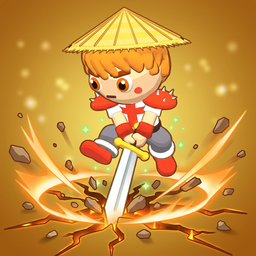
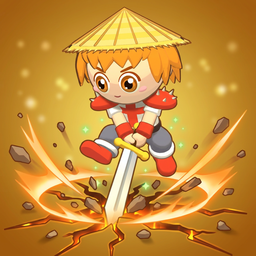
Ferme : deplacements en diagonale, persos habilles dans Tes parties, icones du Iop et des options
- le perso marche en 8 directions (sans couper l'angle des batiments), va au point exact touche et arrondit ses virages
- l'accueil montre chaque partie avec son perso en 3D, apparence et pieces portees
- les 6 icones du Iop classique refaites d'apres le perso en jeu
- icones propres pour les objectifs, les graphismes, le tuto et le plein ecran

diff --git a/site/ferme/js/24-deplacement.js b/site/ferme/js/24-deplacement.js
@@ -31,6 +31,30 @@ function trajetCoupe(depart, cible, but, bloc) {
   }
   return null;
 }
+/* LE PERSO MARCHE AUSSI EN DIAGONALE (23/10/2026, « faudrait qu'on integre les deplacements en diagonale en vrai, qu'on soit plus trop limite et qu'on
+   fluidifie encore les deplacements », Mathieu) : son trajet passe par les huit cases voisines, une diagonale seulement si les deux cases qu'elle
+   frole sont praticables (il ne coupe pas l'angle d'un batiment). Les monstres, les voleurs et le gardien gardent leur trajet en quatre directions */
+const COINS = [[1, 1], [1, -1], [-1, 1], [-1, -1]];
+function coinLibre(a, b) { const di = b.i - a.i, dj = b.j - a.j; if (Math.abs(di) !== 1 || Math.abs(dj) !== 1) return false; const x = caseAt(a.i + di, a.j), y = caseAt(a.i, a.j + dj); return !!(x && y && PASSABLE[x.type] && PASSABLE[y.type]); }
+function voisinsMarche(p) {
+  const L = []; for (const [di, dj] of COTES) { const c = caseAt(p.i + di, p.j + dj); if (c && PASSABLE[c.type]) L.push([c, 1]); }
+  for (const [di, dj] of COINS) { const c = caseAt(p.i + di, p.j + dj); if (c && PASSABLE[c.type] && coinLibre(p, c)) L.push([c, Math.SQRT2]); }
+  return L;
+}
+function trajetPerso(depart, cible) {
+  const but = PASSABLE[cible.type] ? cible : null, bloc = blocDe(cible);
+  const cout = new Map([[depart.id, 0]]), prec = new Map([[depart.id, null]]), ouverts = [depart], fait = new Set();
+  while (ouverts.length) {
+    let k = 0; ouverts.forEach((c, i) => { if (cout.get(c.id) < cout.get(ouverts[k].id)) k = i; });
+    const c = ouverts.splice(k, 1)[0]; if (fait.has(c.id)) continue; fait.add(c.id);
+    if (c === but || (!but && PASSABLE[c.type] && voisins(c).some((v) => bloc.includes(v)))) { const ch = []; let x = c; while (x) { ch.unshift(x); x = prec.get(x.id); } return ch; }
+    for (const [v, pas] of voisinsMarche(c)) { const d = cout.get(c.id) + pas; if (!fait.has(v.id) && d < (cout.has(v.id) ? cout.get(v.id) : Infinity)) { cout.set(v.id, d); prec.set(v.id, c); ouverts.push(v); } }
+  }
+  return trajetCoupe(depart, cible, but, bloc);
+}
+/* le point exact touche dans la case (un clic qui deplace seulement) : il y va, au lieu du centre de la case. Pose par le clic, lu par allerPuis */
+let pointVise = null;
+function pointDansCase(c, p) { const q = posCase(c), m = S / 2 - 0.35; return { x: Math.max(q.x - m, Math.min(q.x + m, p.x)), z: Math.max(q.z - m, Math.min(q.z + m, p.z)) }; }
 function paysanAdjacent(cible) { const c = paysanMesh.userData.cellule, bloc = blocDe(cible); return c && (bloc.includes(c) || voisins(c).some((v) => bloc.includes(v))); }
 /* le trajet : chemin de cases (BFS), puis lisse en lignes droites quand rien ne bloque, arret au bord du champ ou devant le batiment */
 const VITESSE = 5.6, VITESSE_CRA = 1.15, vitesse = () => VITESSE * (niv('bottes') ? 1.3 : 1) * (combat && combat.citron ? VITESSE_CITRON : 1) * (classeDe() === 'cra' ? VITESSE_CRA : 1) * (combat && combat.lenteur > 0 ? 0.55 : 1); /* (ralenti par une Momie Koalak) */ /* (le Cra court 15 % plus vite : plus fragile, il recule pour garder ses distances, c'est au joueur de le faire) */
@@ -44,7 +68,7 @@ function ligneLibre(a, b) {
     for (const o of [0, -0.3, 0.3]) {
       const x = a.x + dx * Math.min(t, L) / L + nx * o, z = a.z + dz * Math.min(t, L) / L + nz * o, c = caseSous(x, z);
       if (!c || !PASSABLE[c.type]) return false;
-      if (o === 0) { if (prec && c !== prec && !voisins(prec).includes(c)) return false; prec = c; }
+      if (o === 0) { if (prec && c !== prec && !voisins(prec).includes(c) && !coinLibre(prec, c)) return false; prec = c; } /* (en diagonale par un coin : les deux cases a cote doivent etre praticables) */
     }
   }
   return true;
@@ -53,12 +77,15 @@ function allerPuis(cible, fn) {
   const u = paysanMesh.userData, ici = caseSous(paysanMesh.position.x, paysanMesh.position.z);
   let depart = (ici && PASSABLE[ici.type] && (u.cellule ? u.cellule.terrain === 'main' : true)) ? ici : (u.cellule || S_.cases[0]);
   if (!PASSABLE[depart.type]) depart = voisins(depart).find((v) => PASSABLE[v.type]) || depart;
-  if (depart === cible || (!PASSABLE[cible.type] && voisins(depart).some((v) => blocDe(cible).includes(v)) && !chemin.length)) { chemin = []; arrivee = null; u.cellule = depart; regarder(posCase(cible)); fn(); return; }
-  const ch = trajet(depart, cible), pc = posCase(cible);
+  const vise = pointVise && pointVise.c === cible.id && PASSABLE[cible.type] ? pointDansCase(cible, pointVise) : null; pointVise = null;
+  if (vise && depart === cible) { if (Math.hypot(vise.x - paysanMesh.position.x, vise.z - paysanMesh.position.z) > 0.05) { chemin = [{ c: cible, x: vise.x, z: vise.z }]; arrivee = { cible, fn, vise }; return; } }
+  if (depart === cible || (!PASSABLE[cible.type] && voisins(depart).some((v) => blocDe(cible).includes(v)) && !chemin.length)) { chemin = []; arrivee = null; u.cellule = depart; if (!vise) regarder(posCase(cible)); fn(); return; }
+  const ch = trajetPerso(depart, cible), pc = posCase(cible);
   if (!ch) { chemin = []; arrivee = null; regarder(pc); fn(); return; } /* sans chemin (ne devrait plus arriver) : il agit d'ou il est, jamais a travers les batiments ou le vide */
   /* ou s'arreter : devant un batiment (un peu vers lui), au bord d'un champ (cote d'ou l'on vient), sinon au centre de la case */
   const fin = ch[ch.length - 1], pf = posCase(fin); let cellFin = fin, pt = { x: pf.x, z: pf.z };
   if (fin !== cible) { const t = posCase(blocDe(cible).find((v) => voisins(fin).includes(v)) || cible); pt = { x: pf.x + (t.x - pf.x) * 0.3, z: pf.z + (t.z - pf.z) * 0.3 }; }
+  else if (vise) pt = { x: vise.x, z: vise.z };
   else if (cible.type === 'champ' && ch.length >= 2) { cellFin = ch[ch.length - 2]; const pv = posCase(cellFin); pt = { x: pc.x + (pv.x - pc.x) * 0.62, z: pc.z + (pv.z - pc.z) * 0.62 }; }
   let pts = ch.slice(1, ch.indexOf(cellFin) + 1).map((c) => ({ c, x: posCase(c).x, z: posCase(c).z }));
   if (pts.length) pts[pts.length - 1] = { c: cellFin, x: pt.x, z: pt.z }; else pts = [{ c: cellFin, x: pt.x, z: pt.z }];
@@ -67,7 +94,7 @@ function allerPuis(cible, fn) {
     while (k < pts.length) { let j = pts.length - 1; while (j > k && !ligneLibre(cur, pts[j])) j--; lisse.push(pts[j]); cur = pts[j]; k = j + 1; }
     pts = lisse;
   }
-  chemin = pts; arrivee = { cible, fn };
+  chemin = pts; arrivee = { cible, fn, vise };
 }
 function regarder(pt) { const dx = pt.x - paysanMesh.position.x, dz = pt.z - paysanMesh.position.z; if (Math.hypot(dx, dz) > 0.05) paysanMesh.userData.angle = Math.atan2(dx, dz); }
 function hancheDe(g) { const p = (g.userData.membres || [])[0]; if (!p) return 0.3; g.updateMatrixWorld(true); return Math.max(0.1, p.getWorldPosition(new T.Vector3()).y - g.position.y); } /* la hauteur de la hanche au-dessus des pieds */
@@ -94,9 +121,13 @@ function marcher(dt, s) {
   if (u.angle !== undefined) { let d = u.angle - paysanMesh.rotation.y; d = Math.atan2(Math.sin(d), Math.cos(d)); paysanMesh.rotation.y += d * Math.min(1, dt * 10); } /* il tourne en douceur */
   if (!chemin.length) {
     u.marche = 0; animerPas(u, dt, 0); paysanMesh.position.y += ((u.y || 0) - paysanMesh.position.y) * Math.min(1, dt * 12);
-    if (arrivee) { const a = arrivee; arrivee = null; regarder(posCase(a.cible)); a.fn(); sauver(); }
+    if (arrivee) { const a = arrivee; arrivee = null; if (!a.vise) regarder(posCase(a.cible)); a.fn(); sauver(); } /* (arrive au point touche, il garde la direction de sa marche) */
     if (fileActions.length && !arrivee && !chemin.length) enchainer(); /* la tache suivante de la file */
     return;
+  }
+  { /* les virages s'arrondissent : pres d'un point de passage, des que le suivant se voit en ligne droite, il file directement vers lui (23/10/2026) */
+    const px = paysanMesh.position.x, pz = paysanMesh.position.z;
+    if (chemin.length >= 2 && Math.hypot(chemin[0].x - px, chemin[0].z - pz) < 0.9 && ligneLibre({ x: px, z: pz }, chemin[1])) { const ici = caseSous(px, pz); if (ici && PASSABLE[ici.type]) u.cellule = ici; chemin.shift(); }
   }
   const e = chemin[0], px = paysanMesh.position.x, pz = paysanMesh.position.z, dx = e.x - px, dz = e.z - pz, d = Math.hypot(dx, dz);
   let reste = d; for (let k = 1; k < chemin.length; k++) reste += Math.hypot(chemin[k].x - chemin[k - 1].x, chemin[k].z - chemin[k - 1].z);
@@ -266,9 +297,9 @@ canvas.addEventListener('pointerup', (e) => {
       if (mid !== undefined) { cibler(mid); return; }
       if (combat.genre === 'ile') { const [x, z] = bornerIle(h.point.x, h.point.z); combat.ordre = true; combat.tenir = true; chemin = [{ c: paysanMesh.userData.cellule, x, z }]; arrivee = null; return; }
       if (combat.arene) { const x = h.point.x, z = h.point.z, C0 = ARENE, R0 = R_ARENE; if (Math.hypot(x - C0.x, z - C0.z) < R0) { combat.ordre = true; combat.tenir = true; chemin = [{ c: paysanMesh.userData.cellule, x, z }]; arrivee = null; } return; }
-      if (cel) { ACTIONS.toucherCase(cel); return; }
+      if (cel) { pointVise = { c: cel, x: h.point.x, z: h.point.z }; ACTIONS.toucherCase(cel); pointVise = null; return; } /* (il va au point touche, pas au centre de la case) */
       if (h.object.material && h.object.material.transparent) continue;
-      const sous = caseIci(h.point.x, h.point.z); if (sous) ACTIONS.toucherCase(sous.id); return;
+      const sous = caseIci(h.point.x, h.point.z); if (sous) { pointVise = { c: sous.id, x: h.point.x, z: h.point.z }; ACTIONS.toucherCase(sous.id); pointVise = null; } return;
     }
     if (mode === 'choisir' && h.object.userData.piece !== undefined) { aDeplacer = { piece: h.object.userData.piece }; mode = 'deplacerBat'; majBandeau(); return; } /* une lanterne de l'escalier, a sa place */
     if (mode && mode !== 'enclos' && h.object.userData.arbre) { /* en amenageant : toucher un arbre le choisit (le meme : on vise la case dessous) */
@@ -284,11 +315,11 @@ canvas.addEventListener('pointerup', (e) => {
     if (bouftou !== null && mode !== 'enclos' && mode !== 'enclosDeplacer') { if (action) toucherBouftou(bouftou); else allerVers(S_.cases.find((c) => c.type === 'enclos')); return; }
     if (terrain !== null) { ACTIONS.acheterTerrain(terrain); return; }
     if (cellule && action && !mode) { const ce = S_.cases.find((c) => c.id === cellule); if (ce && ce.type === 'enclos') { const k = bouftouEcran(e); if (k !== null) { toucherBouftou(k); return; } } } /* un Bouftou contre la cloture : c'est lui qu'on vise, pas l'enclos */
-    if (cellule) { if (action) ACTIONS.toucherCase(cellule); else allerVers(cellule); sauver(); return; }
+    if (cellule) { if (action) ACTIONS.toucherCase(cellule); else { pointVise = { c: cellule, x: h.point.x, z: h.point.z }; allerVers(cellule); pointVise = null; } sauver(); return; }
     if (h.object.material && h.object.material.transparent) continue;
     /* un objet de decor (grange, HDV...) : on cherche la case sous lui */
     const sous = S_.cases.find((p) => { const q = posCase(p); return Math.abs(q.x - h.point.x) < S / 2 && Math.abs(q.z - h.point.z) < S / 2; });
-    if (sous) { if (action) ACTIONS.toucherCase(sous.id); else allerVers(sous); sauver(); return; }
+    if (sous) { if (action) ACTIONS.toucherCase(sous.id); else { pointVise = { c: sous.id, x: h.point.x, z: h.point.z }; allerVers(sous); pointVise = null; } sauver(); return; }
     return;
   }
 });

diff --git a/site/ferme/js/25-interface.js b/site/ferme/js/25-interface.js
@@ -129,7 +129,7 @@ const ICONES = { forge: 'atelier-forge', geliere: 'geliere', qg: 'grange', nivPu
 /* LES ICONES 3D DES SORTS ET DES PASSIFS (23/10/2026, « refais les visuels des sorts », Mathieu) : peintes a partir du rendu du perso, une par apparence,
    toutes dans le meme style, en pleine image (« faut qu'on ait tous le meme ton ») ; tant qu'une apparence n'a pas la sienne, l'ancienne image reste */
 const ICONES_3D = new Set(['iop3', 'iop-berserker-a', 'iop-berserker-b', 'iop-berserker-c', 'feminin-iop', 'cra', 'feminin-cra', 'osa', 'feminin-osa'].flatMap((m) => ['sort3d-' + m + '-attaque', 'sort3d-' + m + '-sort', 'passif-' + m]));
-const V_ICONES_3D = 'i5'; /* (a changer quand on repeint les icones 3D : le navigateur garde sinon les anciennes, sans recharger tous les modeles) */
+const V_ICONES_3D = 'i6'; /* (a changer quand on repeint les icones 3D : le navigateur garde sinon les anciennes, sans recharger tous les modeles) */
 const icone3d = (nom) => '<span class="pic img trois-d"><img src="assets/icones/' + nom + '.png?v=' + VERSION_MODELES + V_ICONES_3D + '" alt=""></span>';
 const ico = (nom) => '<span class="pic img' + (/^obj-leg-/.test(nom) ? ' leg' : '') + '"><img src="assets/icones/' + nom + '.png?v=' + VERSION_MODELES + '" alt=""></span>';
 /* « Comment jouer » dans les Options (23/10/2026, « a refaire ca », Mathieu, devant l'ancien pave de texte) : les commandes de l'appareil
@@ -588,8 +588,8 @@ document.addEventListener('click', (e) => {
   else if (b.dataset.lookOpt) { S_.perso.look = b.dataset.lookOpt; sauver(); const m = modeleDe('iop', S_.perso.look); assurerLook(m).then(() => rhabiller()); $('b-options').click(); }
   else if (b.id === 'b-plein') { pleinEcran(); return; }
   else if (b.id === 'b-plein-opt') { pleinEcran(enPleinEcran()); setTimeout(() => $('b-options').click(), 400); return; }
-  else if (b.id === 'b-options') { ouvrirModale('options', entete('Options') + (DOIGT ? '<div class="art">' + ico('apercu') + '<div><b>Plein écran</b><div class="desc">Cache les barres du navigateur. Couché, le téléphone reste à l\'horizontale.</div></div><div class="act"><button class="btn discret" id="b-plein-opt">' + (enPleinEcran() ? 'Quitter le plein écran' : 'Passer en plein écran') + '</button></div></div>' : '') + '<div class="hdv-section">Ton personnage</div><div class="sexes">' + [['m', 'Masculin'], ['f', 'Féminin']].map(([v, t]) => '<button class="sexe" data-sexe-opt="' + v + '" aria-pressed="' + (sexeDe() === v) + '">' + t + '</button>').join('') + '</div>' + (classeDe() === 'iop' && sexeDe() === 'm' ? '<div class="hdv-section">L\'apparence de ton Iop</div><div class="looks-grille">' + LOOKS_IOP.map(([id, nom]) => '<button class="look" data-look-opt="' + id + '" aria-pressed="' + ((S_.perso.look || 'classique') === id) + '"><img src="assets/icones/iop-look-' + id + '.png?v=' + VERSION_MODELES + '" alt=""><b>' + nom + '</b></button>').join('') + '</div>' : '') + '<div class="hdv-section">Le son et la musique</div><div class="art">' + ico('cloche') + '<div><b>Les sons</b><div class="desc">La faux dans le blé, l\'eau, les coups, les bêê des Bouftous, les fêtes.</div><label class="curseur-son" for="vol-sons">Volume <input type="range" id="vol-sons" min="0" max="100" step="5" value="' + volSons() + '"></label></div><div class="act"><button class="btn discret" id="b-son">' + (sonActif() ? 'Couper le son' : 'Remettre le son') + '</button></div></div>' +
-      '<div class="art">' + ico('cloche') + '<div><b>La musique de fond</b><div class="desc">Elle tourne sans fin et ne joue jamais deux fois la même chose.</div><div class="musiques-opt">' + MUSIQUES_JEU.map(([id, nom, d]) => '<button class="sexe" data-musique-opt="' + id + '" aria-pressed="' + (musiqueChoisie() === id) + '" data-info="' + d + '">' + nom + '</button>').join('') + '</div><label class="curseur-son" for="vol-musique">Volume <input type="range" id="vol-musique" min="0" max="100" step="5" value="' + volMusique() + '"></label></div><div></div></div><div class="art">' + ico('etal') + '<div><b>Les objectifs de Pépito</b><div class="desc">Le petit panneau en haut à gauche.</div></div><div class="act"><button class="btn discret" id="b-objectifs">' + (S_.objCache ? 'Les afficher' : 'Les masquer') + '</button></div></div><div class="art">' + ico('apercu') + '<div><b>Graphismes</b><div class="desc">' + (graphismes() === 'leger' ? 'Légers : sans ombres ni contours, pour les petits appareils.' : 'Complets : ombres et détails.') + ' Si le jeu rame, passe en légers.</div></div><div class="act"><button class="btn discret" id="b-graphismes">' + (graphismes() === 'leger' ? 'Passer en complets' : 'Passer en légers') + '</button></div></div><div class="hdv-section">Apprendre à jouer</div><div class="art">' + ico('etal') + '<div><b>Le tuto du début</b><div class="desc">Pépito te remontre les bases en ' + ETAPES_TUTO.length + ' étapes.</div></div><div class="act"><button class="btn discret" id="b-tuto">Revoir le tuto</button></div></div><div class="art">' + ico('coffre') + '<div><b>Le carnet de Pépito</b><div class="desc">Ses leçons sur les vagues, les boss, l\'équipement, l\'élevage... à relire quand tu veux.</div></div><div class="act"><button class="btn discret" data-carnet>Ouvrir</button></div></div>' + guideJeu() + '<div class="hdv-section">Ta ferme</div><div class="art">' + ico('coffre') + '<div><b>Ton compte</b><div class="desc">' + infoCompte() + '</div></div><div class="act">' + (ENLIGNE && (enLigneSv.compte || jetonInvite()) ? '<button class="btn discret" id="b-deconnexion">Se déconnecter</button>' : '') + '</div></div>' +
+  else if (b.id === 'b-options') { ouvrirModale('options', entete('Options') + (DOIGT ? '<div class="art">' + ico('opt-plein-ecran') + '<div><b>Plein écran</b><div class="desc">Cache les barres du navigateur. Couché, le téléphone reste à l\'horizontale.</div></div><div class="act"><button class="btn discret" id="b-plein-opt">' + (enPleinEcran() ? 'Quitter le plein écran' : 'Passer en plein écran') + '</button></div></div>' : '') + '<div class="hdv-section">Ton personnage</div><div class="sexes">' + [['m', 'Masculin'], ['f', 'Féminin']].map(([v, t]) => '<button class="sexe" data-sexe-opt="' + v + '" aria-pressed="' + (sexeDe() === v) + '">' + t + '</button>').join('') + '</div>' + (classeDe() === 'iop' && sexeDe() === 'm' ? '<div class="hdv-section">L\'apparence de ton Iop</div><div class="looks-grille">' + LOOKS_IOP.map(([id, nom]) => '<button class="look" data-look-opt="' + id + '" aria-pressed="' + ((S_.perso.look || 'classique') === id) + '"><img src="assets/icones/iop-look-' + id + '.png?v=' + VERSION_MODELES + '" alt=""><b>' + nom + '</b></button>').join('') + '</div>' : '') + '<div class="hdv-section">Le son et la musique</div><div class="art">' + ico('cloche') + '<div><b>Les sons</b><div class="desc">La faux dans le blé, l\'eau, les coups, les bêê des Bouftous, les fêtes.</div><label class="curseur-son" for="vol-sons">Volume <input type="range" id="vol-sons" min="0" max="100" step="5" value="' + volSons() + '"></label></div><div class="act"><button class="btn discret" id="b-son">' + (sonActif() ? 'Couper le son' : 'Remettre le son') + '</button></div></div>' +
+      '<div class="art">' + ico('cloche') + '<div><b>La musique de fond</b><div class="desc">Elle tourne sans fin et ne joue jamais deux fois la même chose.</div><div class="musiques-opt">' + MUSIQUES_JEU.map(([id, nom, d]) => '<button class="sexe" data-musique-opt="' + id + '" aria-pressed="' + (musiqueChoisie() === id) + '" data-info="' + d + '">' + nom + '</button>').join('') + '</div><label class="curseur-son" for="vol-musique">Volume <input type="range" id="vol-musique" min="0" max="100" step="5" value="' + volMusique() + '"></label></div><div></div></div><div class="art">' + ico('opt-objectifs') + '<div><b>Les objectifs de Pépito</b><div class="desc">Le petit panneau en haut à gauche.</div></div><div class="act"><button class="btn discret" id="b-objectifs">' + (S_.objCache ? 'Les afficher' : 'Les masquer') + '</button></div></div><div class="art">' + ico('opt-graphismes') + '<div><b>Graphismes</b><div class="desc">' + (graphismes() === 'leger' ? 'Légers : sans ombres ni contours, pour les petits appareils.' : 'Complets : ombres et détails.') + ' Si le jeu rame, passe en légers.</div></div><div class="act"><button class="btn discret" id="b-graphismes">' + (graphismes() === 'leger' ? 'Passer en complets' : 'Passer en légers') + '</button></div></div><div class="hdv-section">Apprendre à jouer</div><div class="art">' + ico('opt-tuto') + '<div><b>Le tuto du début</b><div class="desc">Pépito te remontre les bases en ' + ETAPES_TUTO.length + ' étapes.</div></div><div class="act"><button class="btn discret" id="b-tuto">Revoir le tuto</button></div></div><div class="art">' + ico('coffre') + '<div><b>Le carnet de Pépito</b><div class="desc">Ses leçons sur les vagues, les boss, l\'équipement, l\'élevage... à relire quand tu veux.</div></div><div class="act"><button class="btn discret" data-carnet>Ouvrir</button></div></div>' + guideJeu() + '<div class="hdv-section">Ta ferme</div><div class="art">' + ico('coffre') + '<div><b>Ton compte</b><div class="desc">' + infoCompte() + '</div></div><div class="act">' + (ENLIGNE && (enLigneSv.compte || jetonInvite()) ? '<button class="btn discret" id="b-deconnexion">Se déconnecter</button>' : '') + '</div></div>' +
       '<div class="art">' + ico(S_.perso.sexe === 'f' ? 'feminin-' + S_.perso.classe : S_.perso.classe) + '<div><b>Mes parties</b><div class="desc">Jusqu\'à ' + MAX_PARTIES + ' parties sur ton compte (' + (1 + Object.keys(S_.parties || {}).length) + ' en cours) : change de partie, ou commence une autre classe sans perdre celle-ci.</div></div><div class="act"><button class="btn" id="b-parties">Mes parties</button></div></div>' +
       '<div class="art">' + ico('grange') + '<div><b>Recommencer une ferme</b><div class="desc">' + (ENLIGNE && enLigneSv.compte ? 'Repart de zéro : la nouvelle ferme remplace celle-ci, ici et en ligne.' : 'Efface la sauvegarde de ce navigateur et repart de zéro.') + '</div></div><div class="act"><button class="btn" id="b-reset" style="background:var(--rouge);color:#fff">Recommencer</button></div></div>'); return; }
   else if (b.id === 'b-reset') { ouvrirModale('options', entete('Recommencer ?') + '<div class="confirme"><div class="gros" style="background:#fde3df"><img src="assets/icones/grange.png" alt=""></div><p>Une ferme toute neuve : ' + (ENLIGNE && enLigneSv.compte ? 'celle-ci sera effacée, ici et en ligne, pour de bon.' : 'la sauvegarde de ce navigateur sera effacée, pour de bon.') + (Object.keys(S_.parties || {}).length ? ' Tes autres parties ne bougent pas.' : '') + '</p><div class="boutons"><button class="btn discret" data-fermer>Garder ma ferme</button><button class="btn" id="b-reset-ok" style="background:var(--rouge);color:#fff">Tout effacer</button></div></div>'); return; }

diff --git a/site/ferme/js/30-boucle.js b/site/ferme/js/30-boucle.js
@@ -101,6 +101,15 @@ function sansPartieActive(sauve) { /* effacer la partie en cours : la premiere d
   const autres = Object.assign({}, sauve.parties || {}), ks = Object.keys(autres).map(Number).filter((k) => autres[k] && autres[k].perso).sort((a, b) => a - b); if (!ks.length) return null;
   const nv = Object.assign({}, autres[ks[0]]); delete autres[ks[0]]; nv.parties = autres; nv.emplacement = ks[0]; return nv;
 }
+/* LES PARTIES MONTRENT LE PERSO HABILLE (23/10/2026, « tu penses y'a moyen que ca affiche ton personnage avec tes equipements etc de visible comme en jeu ? », Mathieu) :
+   le portrait de la fiche perso, rendu pour chaque partie (sa classe, son apparence, sa coiffe, sa cape, son arme) ; l'icone de la classe reste le temps du rendu.
+   Le temps de fabriquer le modele, la partie a montrer devient la partie en cours (tout ce qui habille le perso lit S_), puis on la rend */
+async function portraitDePartie(e) {
+  const eq = e.equip || {}, m = modeleDe(e.perso.classe, e.perso.look, e.perso.sexe === 'f' ? 'f' : 'm');
+  await assurerLook(m); if (eq.coiffe || eq.cape || eq.arme) await assurerVisuels();
+  const S0 = S_; S_ = e.equip ? e : Object.assign({}, e, { equip: {} });
+  try { return portraitPerso(); } finally { S_ = S0; }
+}
 function ouvrirAccueil() {
   const sauve = charger();
   let classe = (sauve && sauve.perso && sauve.perso.classe) || 'cra', look = (sauve && sauve.perso && sauve.perso.look) || 'classique', sexe = (sauve && sauve.perso && sauve.perso.sexe) || 'm';
@@ -111,10 +120,13 @@ function ouvrirAccueil() {
   const partieDe = (k) => (k === actif ? (sauve && sauve.perso ? sauve : null) : (sauve && sauve.parties && sauve.parties[k] && sauve.parties[k].perso ? sauve.parties[k] : null));
   const ligneP = (k) => { const e = partieDe(k); if (!e) return '<div class="slot-partie vide"><span class="pnum">' + k + '</span><div><b>Partie ' + k + '</b><span>Emplacement libre</span></div><button class="btn" data-creer="' + k + '">Nouvelle partie</button></div>';
     const cl = CLASSES.find((c) => c.id === e.perso.classe), vg = Math.max(0, ((e.vague && e.vague.num) || 1) - 1);
-    return '<div class="slot-partie' + (k === actif ? ' actif' : '') + '"><img src="assets/icones/' + (e.perso.sexe === 'f' ? 'feminin-' : '') + e.perso.classe + '.png?v=' + VERSION_MODELES + '" alt=""><div><b>' + echapper(e.perso.nom) + '</b><span>' + (cl ? cl.nom + ', ' : '') + 'niveau ' + niveau(e.xp) + (vg ? ', vague ' + vg : '') + ', ' + fmt(e.kamas) + ' kamas</span></div>' +
+    const ico0 = e.perso.sexe === 'f' ? 'feminin-' + e.perso.classe : e.perso.classe === 'iop' && e.perso.look && e.perso.look !== 'classique' ? 'iop-look-' + e.perso.look : e.perso.classe;
+    return '<div class="slot-partie' + (k === actif ? ' actif' : '') + '"><img class="portrait-partie" data-portrait="' + k + '" src="assets/icones/' + ico0 + '.png?v=' + VERSION_MODELES + '" alt=""><div><b>' + echapper(e.perso.nom) + '</b><span>' + (cl ? cl.nom + ', ' : '') + 'niveau ' + niveau(e.xp) + (vg ? ', vague ' + vg : '') + ', ' + fmt(e.kamas) + ' kamas</span></div>' +
       '<button class="btn kamas" data-jouer="' + k + '">' + (k === actif ? 'Reprendre' : 'Jouer') + '</button><button class="partie-suppr" data-suppr="' + k + '" aria-label="Supprimer cette partie" title="Supprimer cette partie">✕</button></div>'; };
   const rendre = () => {
-    if (sauve && sauve.perso && creer == null) { carte.innerHTML = '<h1>Ferme d\'Incarnam</h1>' + bandeauCompte() + '<p class="parties-titre">Tes parties (' + MAX_PARTIES + ' au plus)</p><div class="slots-parties">' + [1, 2, 3].map(ligneP).join('') + '</div>'; return; }
+    if (sauve && sauve.perso && creer == null) { carte.innerHTML = '<h1>Ferme d\'Incarnam</h1>' + bandeauCompte() + '<p class="parties-titre">Tes parties (' + MAX_PARTIES + ' au plus)</p><div class="slots-parties">' + [1, 2, 3].map(ligneP).join('') + '</div>';
+      carte.querySelectorAll('img[data-portrait]').forEach((im) => { const e = partieDe(+im.dataset.portrait); if (e) portraitDePartie(e).then((src) => { if (src && im.isConnected) { im.src = src; im.classList.add('rendu'); } }).catch(() => {}); });
+      return; }
     carte.innerHTML = '<h1>Ferme d\'Incarnam</h1>' + bandeauCompte() + (creer != null ? '' : '<p>Une île de 40 cases dans le ciel d\'Incarnam. Cultive, élève des Bouftous, vends à l\'HDV, et défends ta ferme contre les Tofus et les vagues qui viendront.</p>') + /* (la presentation : seulement pour une premiere ferme) */
       (creer != null ? '<button class="retour-parties" data-retour-parties>← Mes parties</button><p class="parties-titre">Nouvelle partie, emplacement ' + creer + '</p>' : '') +
       ('<div class="nom-sexe"><input id="perso-nom" maxlength="16" placeholder="Ton nom de fermier" value="' + echapper(creer != null ? '' : (sauve && sauve.perso && sauve.perso.nom) || (enLigneSv.pseudo || '').slice(0, 16)) + '"><div class="sexes" role="group" aria-label="Version de ton personnage"><button class="sexe" data-sexe="m" aria-pressed="' + (sexe === 'm') + '">Masculin</button><button class="sexe" data-sexe="f" aria-pressed="' + (sexe === 'f') + '">Féminin</button></div></div><p class="choix-classe">Choisis ton personnage. À la ferme, ils font tous pareil : la classe change seulement ta façon de te battre quand les monstres attaquent. <button class="lien" data-comparer>Comparer les trois classes</button></p><div class="classes">' + CLASSES.slice().sort((x, y) => x.rang - y.rang).map((c) => '<button class="classe" data-classe="' + c.id + '" aria-pressed="' + (classe === c.id) + '"><span class="ico"><img src="assets/icones/' + (sexe === 'f' ? 'feminin-' : '') + c.id + '.png?v=' + VERSION_MODELES + '" alt=""></span><b>' + c.nom + '</b><span class="etiquettes"><i>' + c.role + '</i><i class="' + c.niveau[1] + '">' + c.niveau[0] + '</i></span>' + (() => { const P = progressionClasse(c.id); return '<span class="chiffres"><span>' + picto('vita') + P.pv1 + ' PV <b>+' + P.pvN + '</b>/niv</span><span>' + picto('degats') + P.deg1 + ' dégâts <b>+' + virgule(P.degN) + '</b>/niv</span></span>'; })() + c.lignes.map((t, i) => '<span class="ligne' + (i ? ' l2' : '') + '">' + t + '</span>').join('') + '<span class="sort"><em>Son sort, ' + c.sort + ' :</em> ' + c.sortTxt + '<br><em>Passif de classe :</em> ' + (enBref(c.id).passif || 'aucun pour l\'instant') + '</span></button>').join('') + '</div>' +

diff --git a/site/ferme/css/jeu.css b/site/ferme/css/jeu.css
@@ -476,7 +476,7 @@ input, textarea { -webkit-user-select: text; user-select: text; }
 .accueil .parties-titre { margin: 6px 0 8px; font: 400 1.2rem/1 var(--f-titre); text-align: left; } .slots-parties { display: grid; gap: 9px; text-align: left; }
 .slot-partie { display: flex; align-items: center; gap: 10px; background: #fff; border: 3px solid var(--bord); border-radius: 14px; box-shadow: 0 3px 0 var(--bord); padding: 7px 8px 7px 10px; }
 .slot-partie.actif { background: #eef7e6; border-color: var(--vert); box-shadow: 0 3px 0 #3f6f1f; } .slot-partie.vide { background: #f6efe1; border-style: dashed; box-shadow: none; }
-.slot-partie img { width: 44px; height: 44px; object-fit: contain; flex: none; } .slot-partie .pnum { width: 44px; height: 44px; flex: none; display: grid; place-items: center; border-radius: 50%; background: #eadfc8; font: 400 1.2rem/1 var(--f-titre); color: #8a7a5a; }
+.slot-partie img { width: 44px; height: 44px; object-fit: contain; flex: none; } .slot-partie img.rendu { width: 50px; height: 60px; margin: -6px 0; } /* (le perso habille, rendu en 3D : un peu plus haut que l'icone) */ .slot-partie .pnum { width: 44px; height: 44px; flex: none; display: grid; place-items: center; border-radius: 50%; background: #eadfc8; font: 400 1.2rem/1 var(--f-titre); color: #8a7a5a; }
 .slot-partie > div { flex: 1; min-width: 0; } .slot-partie b { display: block; font-size: .95rem; } .slot-partie span { display: block; font-size: .74rem; font-weight: 700; color: #6b5a48; }
 .slot-partie .btn { padding: 7px 14px; font-size: .86rem; } .partie-suppr { background: none; border: 0; font: 800 1rem/1 var(--f-texte); color: #a08a6a; cursor: pointer; padding: 4px 6px; } .partie-suppr:hover { color: var(--rouge); }
 .accueil .retour-parties { display: block; margin: 0 0 8px; background: none; border: 0; font: 800 .78rem var(--f-texte); color: #8a6a3a; text-decoration: underline; cursor: pointer; } /* de l'air sous le bouton (son ombre le fait paraitre plus bas) */

diff --git a/site/ferme/index.html b/site/ferme/index.html
@@ -16,7 +16,7 @@
 <link rel="preconnect" href="https://fonts.googleapis.com">
 <link rel="preconnect" href="https://fonts.gstatic.com" crossorigin>
 <link rel="stylesheet" href="https://fonts.googleapis.com/css2?family=Lilita+One&family=Nunito:wght@600;800&display=swap">
-<link rel="stylesheet" href="css/jeu.css?v=5941f04f8e">
+<link rel="stylesheet" href="css/jeu.css?v=fd3a4faee7">
 </head>
 <body>
 <canvas id="ciel" aria-hidden="true"></canvas>
@@ -115,13 +115,13 @@
 <script src="js/22-sorts.js?v=9d45b01827"></script>
 <script src="js/22b-effets.js?v=42f3efbf22"></script>
 <script src="js/23-fin-combat.js?v=318d77354b"></script>
-<script src="js/24-deplacement.js?v=98cab268c3"></script>
-<script src="js/25-interface.js?v=fa5ffeb23a"></script>
+<script src="js/24-deplacement.js?v=891569f1f4"></script>
+<script src="js/25-interface.js?v=a8623fdc0b"></script>
 <script src="js/26-casino.js?v=c052721067"></script>
 <script src="js/27-arene.js?v=3aa581d3c1"></script>
 <script src="js/28-voyage.js?v=9721219ffc"></script>
 <script src="js/29-casino-jeux.js?v=282e11915d"></script>
-<script src="js/30-boucle.js?v=06ddefe15a"></script>
+<script src="js/30-boucle.js?v=b0b8285d39"></script>
 <script src="js/31-pepito.js?v=b7c5762a6d"></script>
 <script src="js/32-tuto.js?v=43aa0dfcea"></script>
 <script src="js/33-demarrage.js?v=1ab595b4d5"></script>
